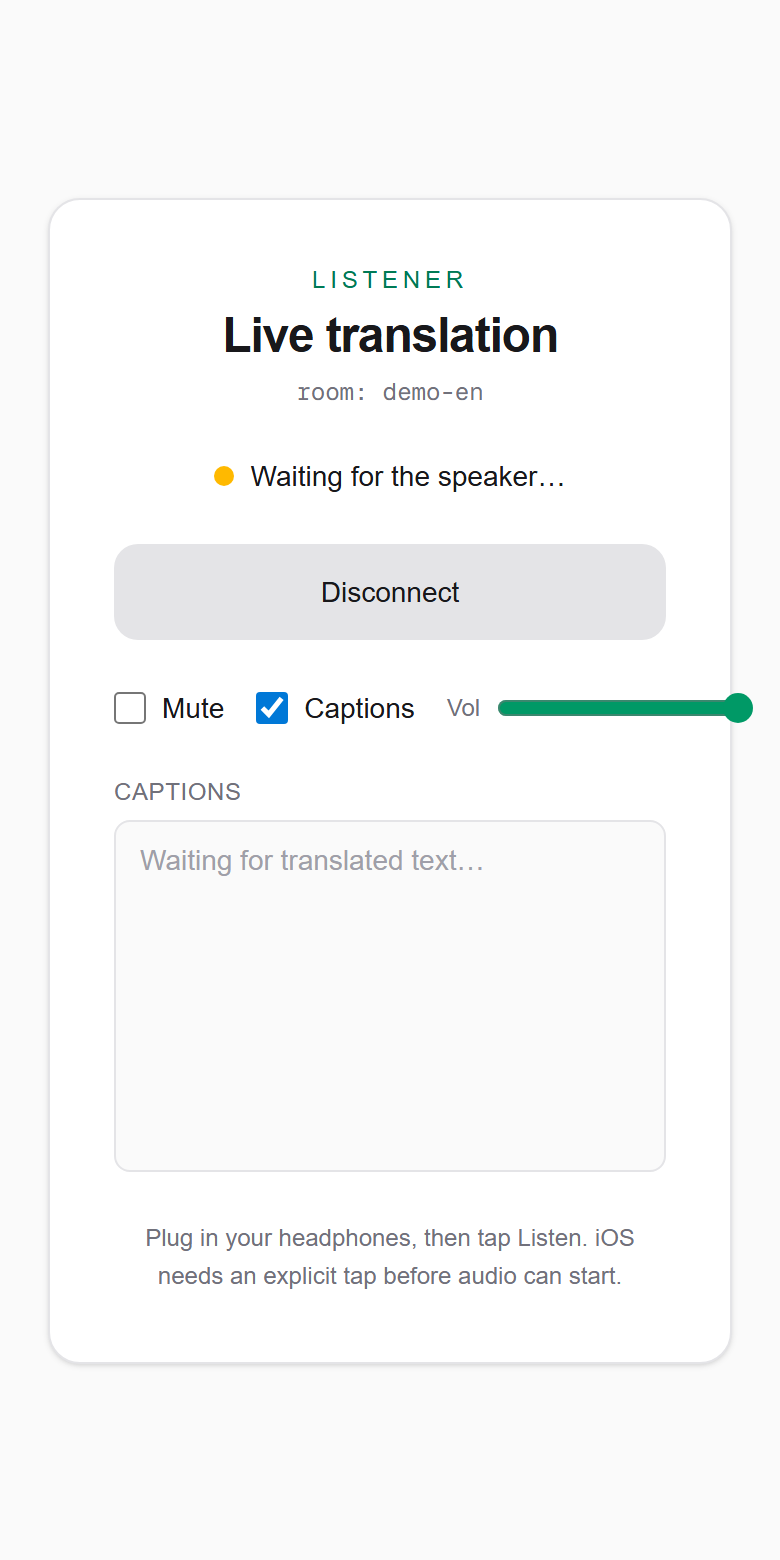
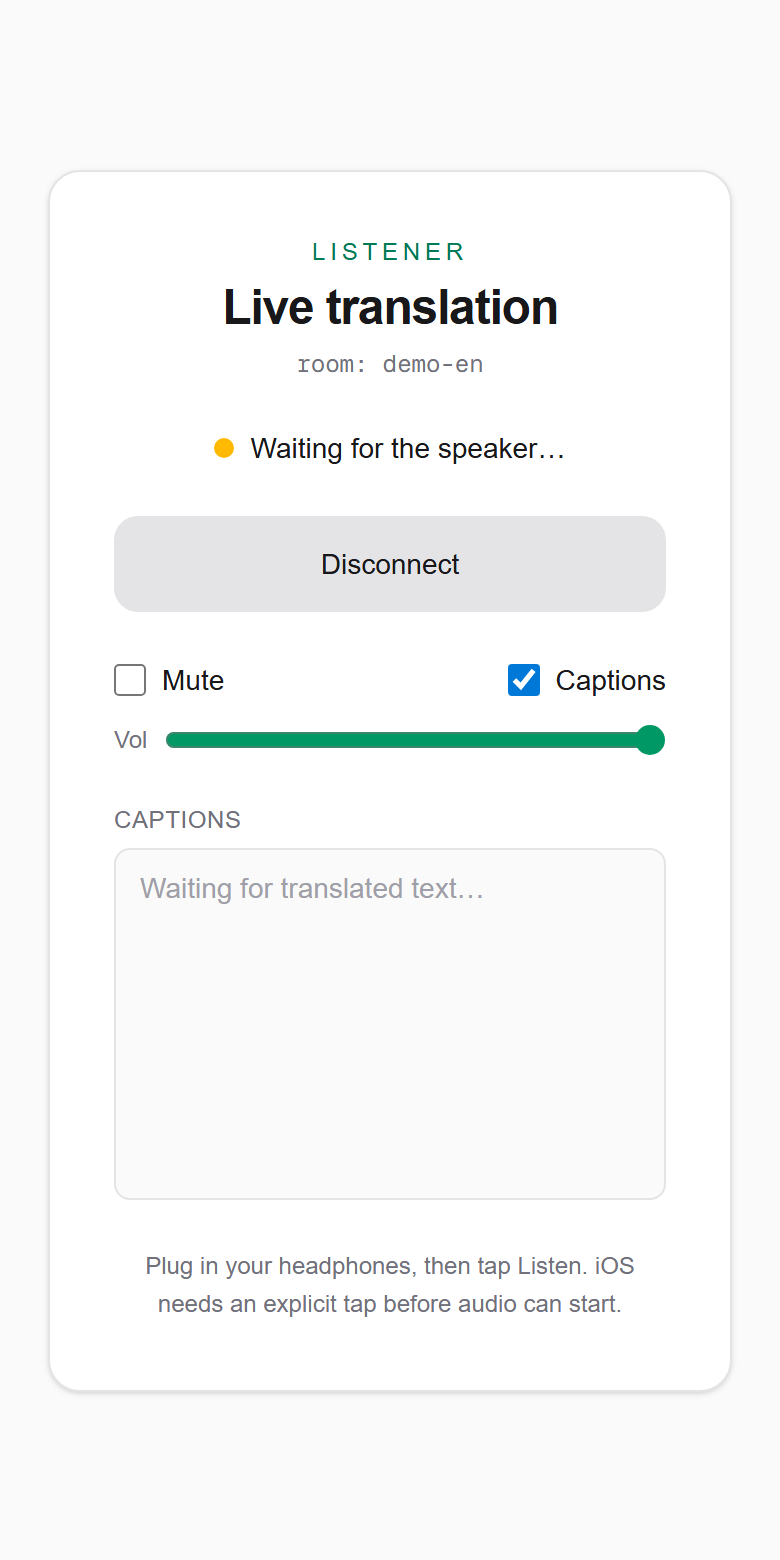
Listener: keep the volume slider inside the card; em dashes out of UI strings

Changed region(s): [[0.1231, 0.1538, 0.9846, 0.5846], [0.1846, 0.7692, 0.8, 0.8615]]

diff --git a/app/operator/page.tsx b/app/operator/page.tsx
@@ -950,7 +950,7 @@ export default function OperatorPage() {
             <span>
               Raw audio{" "}
               <span className="text-xs text-zinc-500 dark:text-zinc-400">
-                (disable browser DSP — for VB-Cable / line-level feeds)
+                (disable browser DSP. For VB-Cable / line-level feeds)
               </span>
             </span>
           </label>
@@ -973,7 +973,7 @@ export default function OperatorPage() {
               className="flex items-center gap-1.5 text-sm"
               title={
                 value === "source"
-                  ? "Listen to the raw mic input — useful to verify the mic is picking up cleanly. Use headphones to avoid feedback."
+                  ? "Listen to the raw mic input. Useful to verify the mic is picking up cleanly. Use headphones to avoid feedback."
                   : value === "openai"
                     ? "Listen to the OpenAI translated audio."
                     : "Silence both."
@@ -1063,7 +1063,7 @@ export default function OperatorPage() {
               </div>
               <label className="flex flex-col gap-1">
                 <span className="text-[10px] uppercase tracking-wide text-zinc-400 dark:text-zinc-600">
-                  Base URL — must be reachable from phones (not localhost)
+                  Base URL: must be reachable from phones (not localhost)
                 </span>
                 <input
                   type="text"
@@ -1078,7 +1078,7 @@ export default function OperatorPage() {
               </div>
               {phase === "room-open" ? (
                 <div className="rounded-md border border-sky-300 bg-sky-50 px-3 py-2 text-xs text-sky-900 dark:border-sky-800 dark:bg-sky-950 dark:text-sky-200">
-                  Room is open — share this link now. Listeners who connect will
+                  Room is open. Share this link now. Listeners who connect will
                   hear &ldquo;waiting for the speaker&rdquo; until you click{" "}
                   <strong>Start translation</strong>.
                 </div>

diff --git a/app/listen/[room]/page.tsx b/app/listen/[room]/page.tsx
@@ -247,7 +247,7 @@ export default function ListenerPage({
               Disconnect
             </button>
 
-            <div className="flex items-center justify-between gap-4">
+            <div className="flex flex-wrap items-center justify-between gap-x-4 gap-y-3">
               <label className="flex items-center gap-2 text-sm">
                 <input
                   type="checkbox"
@@ -266,7 +266,7 @@ export default function ListenerPage({
                 />
                 <span>Captions</span>
               </label>
-              <div className="flex flex-1 items-center gap-2 text-sm">
+              <div className="flex min-w-40 flex-1 items-center gap-2 text-sm">
                 <span className="text-xs text-zinc-500 dark:text-zinc-400">
                   Vol
                 </span>
@@ -277,7 +277,7 @@ export default function ListenerPage({
                   step={0.05}
                   value={volume}
                   onChange={(e) => setVolume(Number(e.target.value))}
-                  className="flex-1 accent-emerald-600"
+                  className="min-w-0 flex-1 accent-emerald-600"
                 />
               </div>
             </div>

diff --git a/components/telemetry-panel.tsx b/components/telemetry-panel.tsx
@@ -109,7 +109,7 @@ export function TelemetryPanel({
         <div className="border-t border-zinc-200 px-5 py-4 dark:border-zinc-800">
           {!s ? (
             <p className="text-sm text-zinc-400 dark:text-zinc-600">
-              No session yet — telemetry starts when you click Start session.
+              No session yet. Telemetry starts when you click Start session.
             </p>
           ) : (
             <div className="grid grid-cols-1 gap-4 md:grid-cols-2 lg:grid-cols-4">
